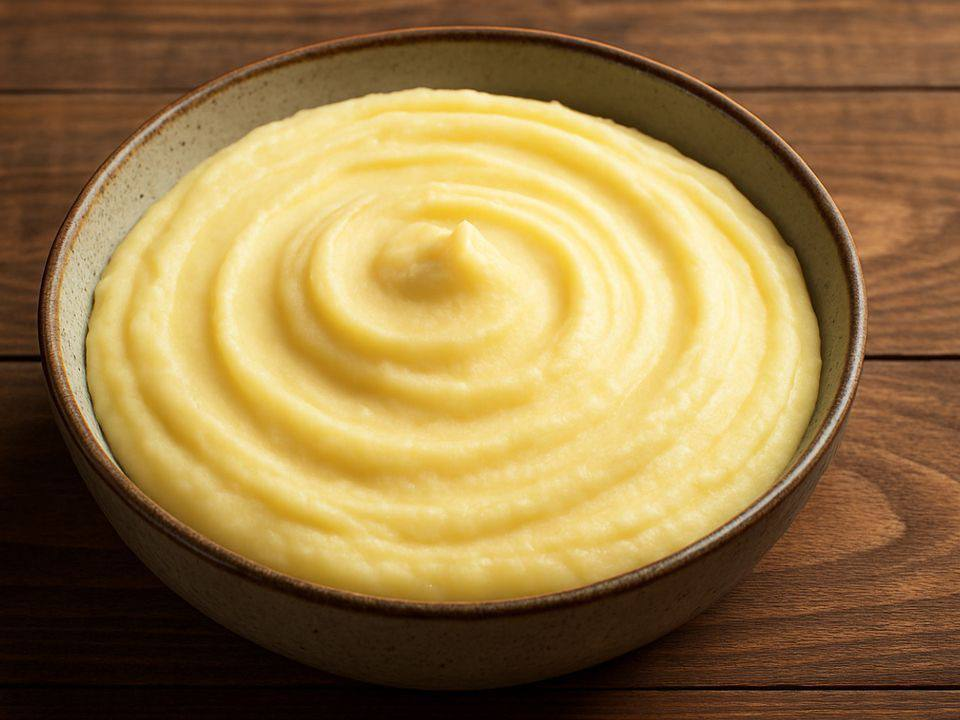
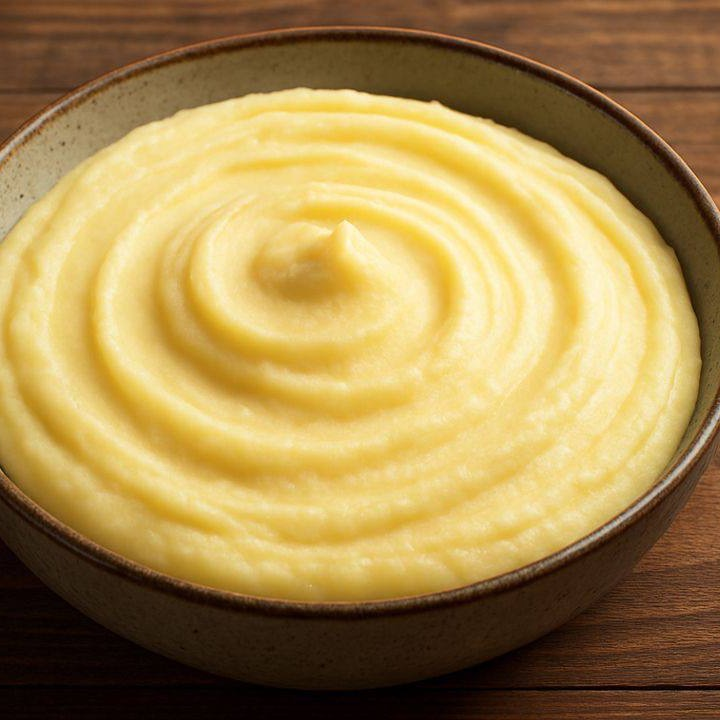
Crop horizontal dish photos (chicken soup, chicken cream, beef, puree) to centered square format (1:1) matching cutlets and cookies scale

diff --git a/index.html b/index.html
@@ -1033,7 +1033,7 @@
         desc: 'Прозрачный легкий бульон из отборного куриного филе, сладкая морковь, лучок и свежая зелень. Макароны на ваш выбор: домашняя яичная лапша или веселые звездочки для детей.',
         portion: 'Кастрюля 3.5–4 л (7–8 порций)',
         prepMinutes: 40,
-        img: 'images/chicken_soup.jpg',
+        img: 'images/chicken_soup.jpg?v=2',
         origImg: '',
         fallbackImg: 'https://images.unsplash.com/photo-1547592180-85f173990554?w=800&auto=format&fit=crop&q=80',
         badges: ['Любимое детям', 'Лапша или звездочки', 'Легкий бульон']
@@ -1083,7 +1083,7 @@
         desc: 'Сочные кубики куриного филе в деликатном сливочном соусе со сладким болгарским перцем, кукурузой, красным и зеленым луком. Идеально с рисом или пастой.',
         portion: 'Глубокий бокс (~900 г, 4–5 порций)',
         prepMinutes: 45,
-        img: 'images/chicken_cream.jpg',
+        img: 'images/chicken_cream.jpg?v=2',
         origImg: 'images/IMAGE 2026-10-01 17:23:23.jpg',
         fallbackImg: 'https://images.unsplash.com/photo-1604908176997-125f25cc6f3d?w=800&auto=format&fit=crop&q=80',
         badges: ['Нежные сливки', 'Сладкий перец & кукуруза', 'Не острое']
@@ -1107,7 +1107,7 @@
         desc: 'Нежнейшие кубики томленой говядины в авторском красном соусе на основе запеченного сладкого перца, баклажана, сладкой кукурузы и лука. Насыщенный богатый вкус.',
         portion: 'Глубокий бокс (~900 г, 4–5 порций)',
         prepMinutes: 55,
-        img: 'images/beef_roasted_peppers.jpg',
+        img: 'images/beef_roasted_peppers.jpg?v=2',
         origImg: 'images/IMAGE 2026-10-01 17:27:24.jpg',
         fallbackImg: 'https://images.unsplash.com/photo-1544025162-d76694265947?w=800&auto=format&fit=crop&q=80',
         badges: ['Печеный перец & баклажан', 'Томленая говядина', 'Богатый вкус']
@@ -1193,9 +1193,9 @@
         desc: 'Шелковистое воздушное пюре из отборного картофеля на теплом молоке и сливочном масле. Классика домашнего уюта, любимая взрослыми и детьми.',
         portion: 'Семейный бокс (~700 г, 4–5 порций)',
         prepMinutes: 30,
-        img: 'images/side_puree.jpg',
+        img: 'images/side_puree.jpg?v=2',
         origImg: 'images/пюре.jpg',
-        imgPosition: '10% center',
+        imgPosition: 'center',
         fallbackImg: 'https://images.unsplash.com/photo-1518977676601-b53f82aba655?w=600&auto=format&fit=crop&q=80',
         badges: ['Воздушное & сливочное', 'Любимое детям']
       },
